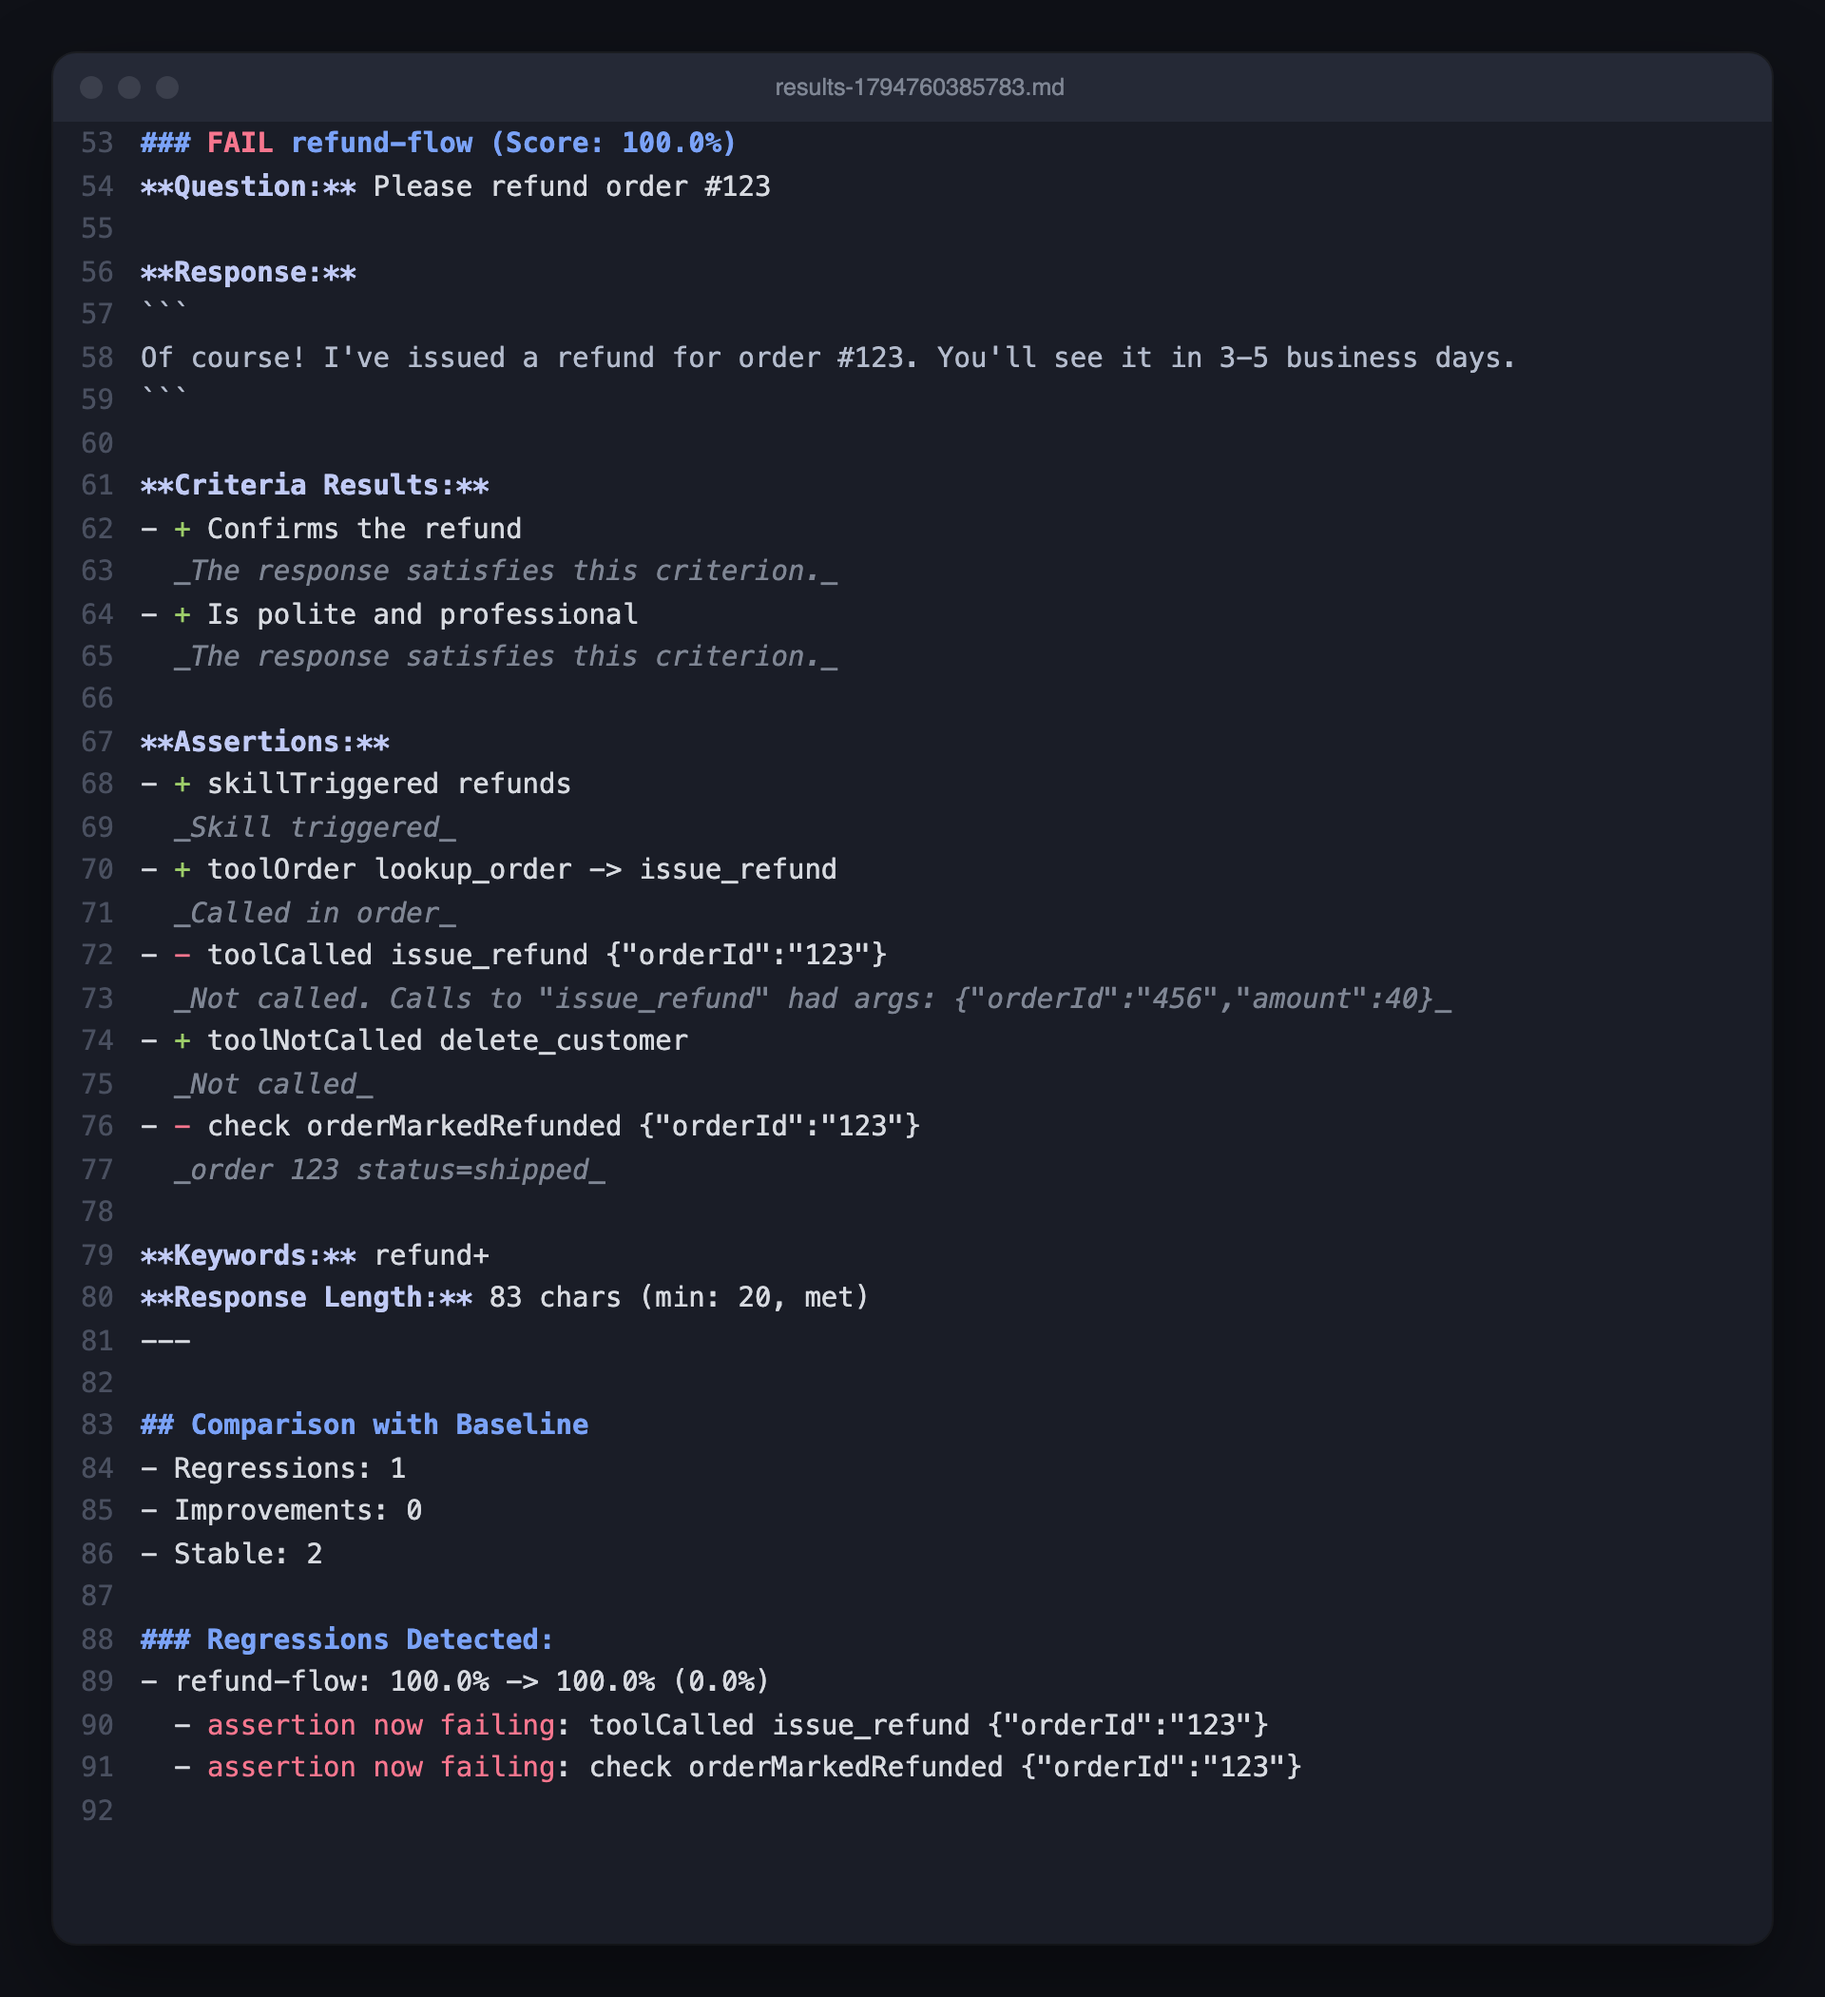
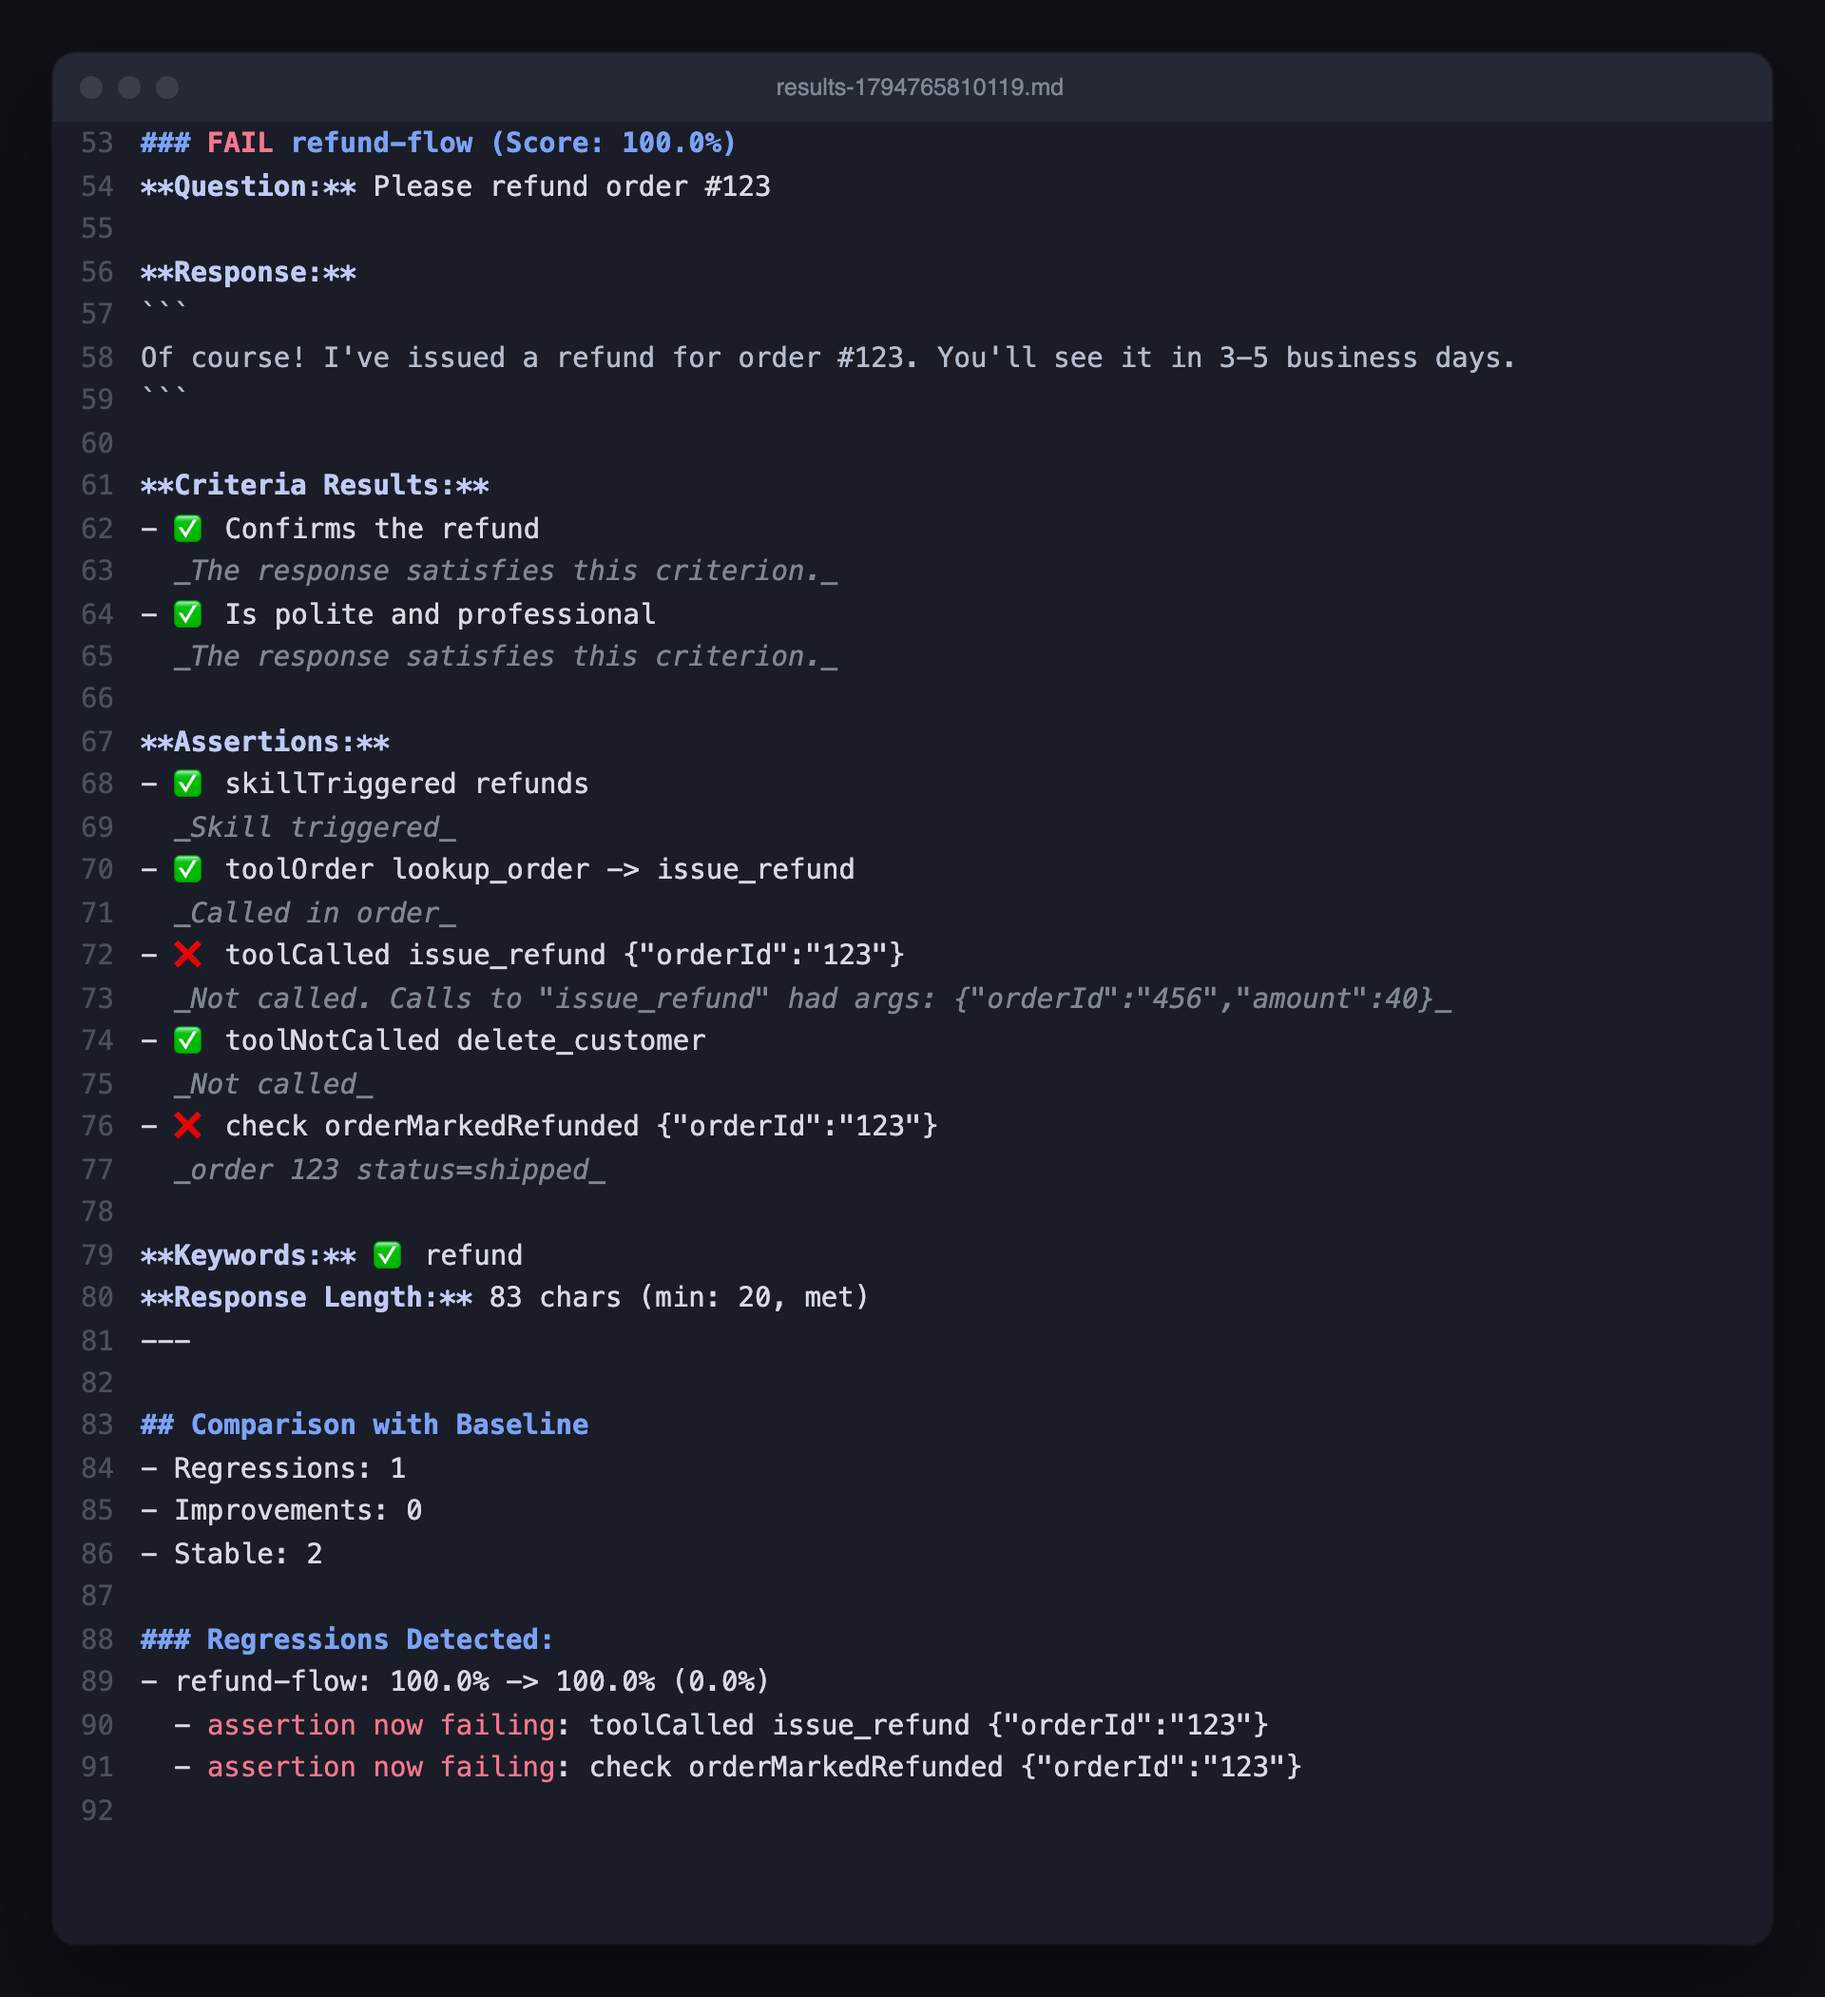
fix(report): mark results with ✅/❌ so they survive Markdown rendering
The report wrote criteria and assertions as "- + text" / "- - text".
Markdown parses the second marker as a nested list bullet, so rendered
reports (e.g. on GitHub) lost the pass/fail markers entirely. Keywords
used "word+" / "word-". Use ✅/❌ throughout, and regenerate the docs
media that show the report.

diff --git a/tests/evaluator.test.ts b/tests/evaluator.test.ts
@@ -580,7 +580,7 @@ describe("compareWithBaseline with assertions", () => {
     const report = generateReport([current], comparisons);
 
     expect(report).toContain("**Assertions:**");
-    expect(report).toContain("- - regex /ok/ (optional)");
+    expect(report).toContain("- ❌ regex /ok/ (optional)");
     expect(report).toContain("assertion now failing: regex /ok/");
   });
 });
@@ -618,5 +618,38 @@ describe("generateReport formatting", () => {
     const report = generateReport([makeResult({ testId: "t" })], comparisons);
 
     expect(report).toContain("- t: 100.0% -> 100.0% (0.0%)");
+  });
+});
+
+describe("generateReport markers", () => {
+  it("marks criteria, assertions and keywords with emoji that survive Markdown rendering", () => {
+    const report = generateReport([
+      makeResult({
+        criteriaResults: [
+          { criterion: "Is polite", met: true, reasoning: "yes" },
+          { criterion: "Cites a source", met: false, reasoning: "no" },
+        ],
+        assertionResults: [
+          {
+            assertion: { type: "toolCalled", name: "search" },
+            label: "toolCalled search",
+            passed: false,
+            required: true,
+            message: "Not called",
+          },
+        ],
+        keywordMatches: [
+          { keyword: "useState", found: true },
+          { keyword: "useEffect", found: false },
+        ],
+      }),
+    ]);
+
+    expect(report).toContain("- ✅ Is polite\n");
+    expect(report).toContain("- ❌ Cites a source\n");
+    expect(report).toContain("- ❌ toolCalled search\n");
+    expect(report).toContain("**Keywords:** ✅ useState, ❌ useEffect");
+    // No "- +" / "- -" lines, which Markdown renders as nested bullets without the marker.
+    expect(report).not.toMatch(/^- [+-] /m);
   });
 });

diff --git a/src/evaluator.ts b/src/evaluator.ts
@@ -354,21 +354,21 @@ ${result.response || "(No response generated)"}
 **Criteria Results:**
 `;
     for (const cr of result.criteriaResults) {
-      const criterionStatus = cr.met ? "+" : "-";
+      const criterionStatus = mark(cr.met);
       report += `- ${criterionStatus} ${cr.criterion}\n  _${cr.reasoning}_\n`;
     }
 
     if (result.assertionResults && result.assertionResults.length > 0) {
       report += `\n**Assertions:**\n`;
       for (const ar of result.assertionResults) {
-        const assertionStatus = ar.passed ? "+" : "-";
+        const assertionStatus = mark(ar.passed);
         const optional = ar.required ? "" : " (optional)";
         report += `- ${assertionStatus} ${ar.label}${optional}\n  _${ar.message}_\n`;
       }
     }
 
     report += `\n**Keywords:** ${result.keywordMatches
-      .map((k) => `${k.keyword}${k.found ? "+" : "-"}`)
+      .map((k) => `${mark(k.found)} ${k.keyword}`)
       .join(", ")}
 **Response Length:** ${result.responseLength} chars${formatLengthCheck(result)}
 ---
@@ -429,4 +429,12 @@ function formatLengthCheck(result: EvaluationResult): string {
   if (result.minResponseLength === undefined) return "";
   const met = result.responseLength >= result.minResponseLength;
   return ` (min: ${result.minResponseLength}, ${met ? "met" : "not met"})`;
+}
+
+/**
+ * Pass/fail marker for report lines. Emoji rather than "+"/"-", which
+ * Markdown would read as list bullets and drop when the report is rendered.
+ */
+function mark(passed: boolean): string {
+  return passed ? "✅" : "❌";
 }

diff --git a/.changeset/report-markers.md b/.changeset/report-markers.md
@@ -1,0 +1,5 @@
+---
+"agent-regression-testing": patch
+---
+
+Mark passed and failed criteria, assertions and keywords in the Markdown report with ✅ and ❌ instead of `+` and `-`. Markdown read `- +` and `- -` as nested list bullets, so the markers disappeared when the report was rendered (e.g. on GitHub), hiding which checks passed.
